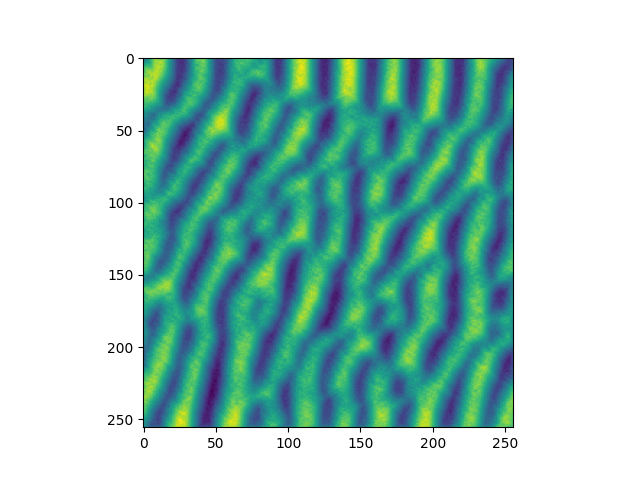
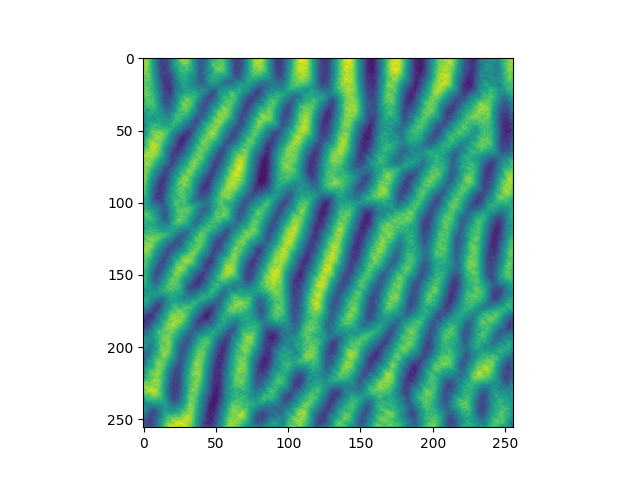
Stabilize bedrock after each simulation step

Changed region(s): [[0.2188, 0.125, 0.8125, 0.9062]]

diff --git a/Code/Source/desert-simulation.cpp b/Code/Source/desert-simulation.cpp
@@ -38,14 +38,8 @@ void DuneSediment::EndSimulationStep() {
 #pragma omp atomic
   simulationStepCount++;
 
-  if (simulationStepCount % 5 == 0) {
-    // Bedrock stabilization is required if abrasion is turned on
-    // To avoid unrealistic bedrock shapes. However, the repose angle of the
-    // material Can be changed (we use 68 degrees, see desert.h static
-    // variables).
-    if (abrasionOn)
-      StabilizeBedrockAll();
-  }
+  if (abrasionOn)
+    StabilizeBedrockAll();
 }
 
 /*!
